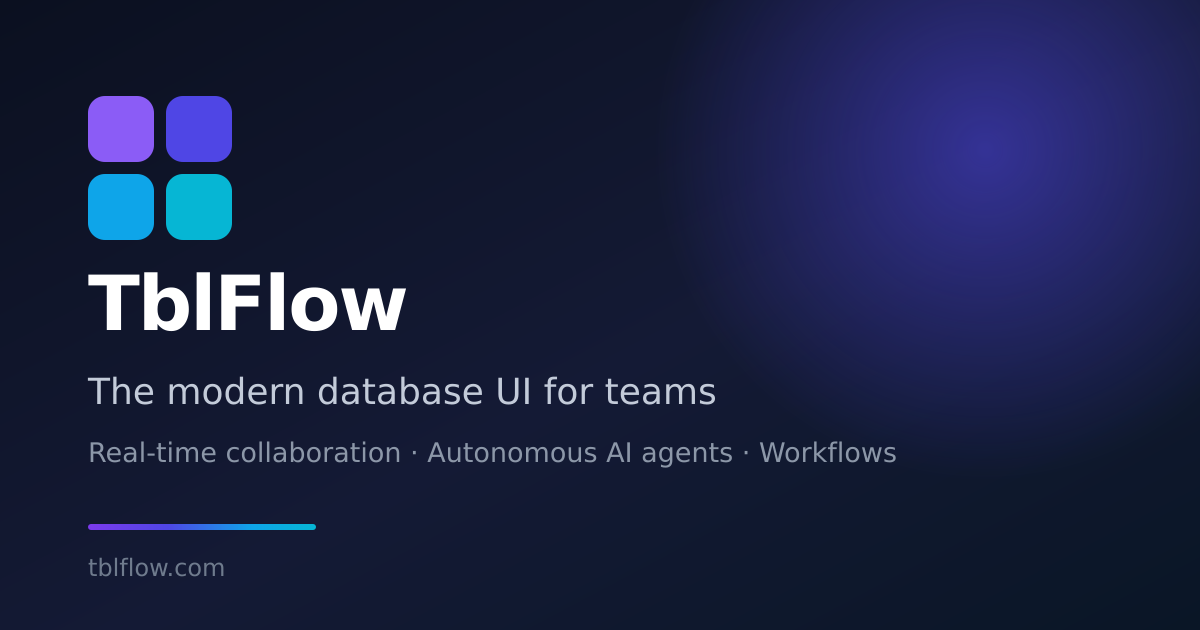
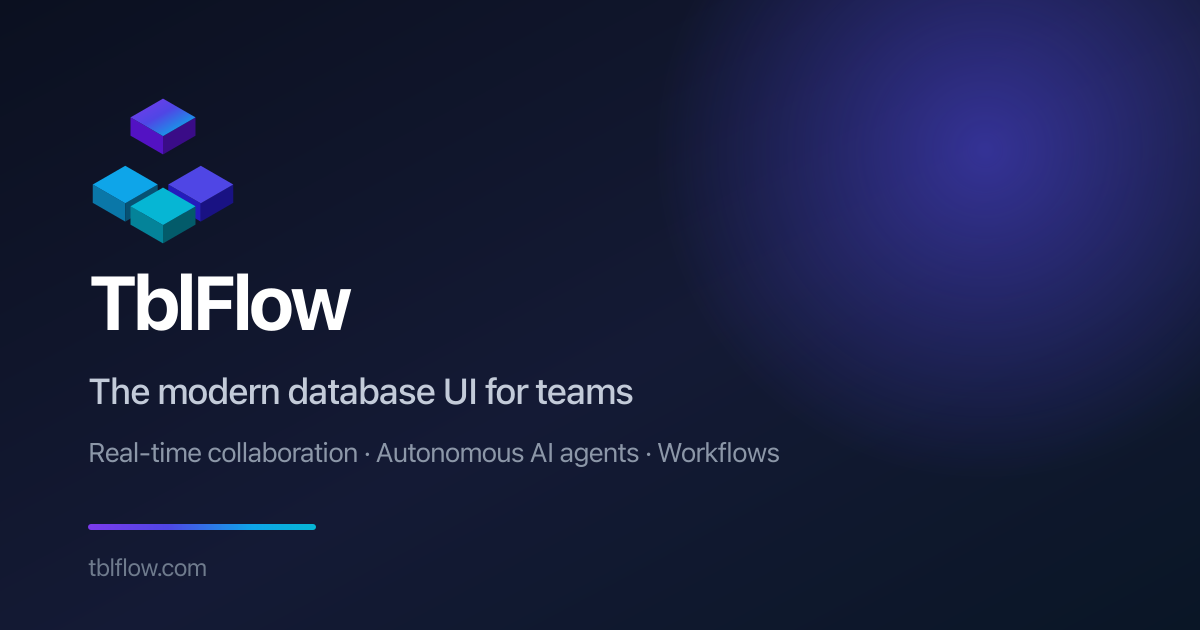
design: new isometric mark, drawn from one shared definition
Replaces the 2×2 rounded-tile mark with the four-box isometric symbol: three
boxes resting and one floating above. Geometry taken verbatim from the supplied
SVG — verified polygon by polygon against the source, all twelve identical.

The mark appears in three places that cannot share an implementation: the Astro
component (header, hero, footer), the standalone SVG used as favicon,
apple-touch icon and the Organization `logo` in the JSON-LD graph, and the Open
Graph card, which a Node script rasterises to PNG. Three hand-maintained copies
of twelve polygons is how a favicon ends up a redesign behind without anyone
noticing, so the geometry now lives once in `src/data/logo-mark.mjs` — plain
.mjs so the Node script can import it too — and the other two are generated
from it. `npm run og` writes both the card and the favicon.

Each box is the same shape translated, so the module generates them from a
centre and a top vertex rather than transcribing coordinates. Coordinates are
rounded to one decimal: 86.6 − 74.5 is 12.099999999999994 in binary floating
point, and that would otherwise be written into the favicon and into the header
of every page.

The viewBox is square and centred on the art, not on the origin. The art spans
322 × 332, and the component passes one `size` to both width and height, so a
non-square viewBox would have squashed the mark by 3% everywhere and sat it
off-centre as a favicon.

Also fixes the staggered hero entrance, which has been wrong since it was
[…]

diff --git a/src/styles/global.css b/src/styles/global.css
@@ -269,15 +269,23 @@
     animation: fade-in 0.9s var(--ease-out-soft) both;
   }
 
-  /* Staggered logo tiles — the mark is a 2×2 grid of four independent tiles. */
+  /* Staggered logo boxes — the mark is four independent isometric boxes, three
+     resting and one floating above, and they land in paint order so the base
+     assembles before the top block arrives.
+
+     `nth-of-type`, not `nth-child`: the <svg> also contains <title> and <defs>,
+     which took child positions 1 and 2 and pushed the four boxes to 3…6. The
+     effect was that two boxes got the late delays, two got none, and the last
+     two popped first. `nth-of-type` counts <g> elements only, so the four
+     positions are the four boxes. */
   .logo-tile {
     animation: tile-pop 0.62s var(--ease-out-soft) both;
     transform-origin: center;
   }
-  .logo-tile:nth-child(1) { animation-delay: 0.02s; }
-  .logo-tile:nth-child(2) { animation-delay: 0.1s; }
-  .logo-tile:nth-child(3) { animation-delay: 0.18s; }
-  .logo-tile:nth-child(4) { animation-delay: 0.26s; }
+  .logo-tile:nth-of-type(1) { animation-delay: 0.02s; }
+  .logo-tile:nth-of-type(2) { animation-delay: 0.1s; }
+  .logo-tile:nth-of-type(3) { animation-delay: 0.18s; }
+  .logo-tile:nth-of-type(4) { animation-delay: 0.26s; }
 
   .animate-gradient {
     background-size: 220% 220%;
